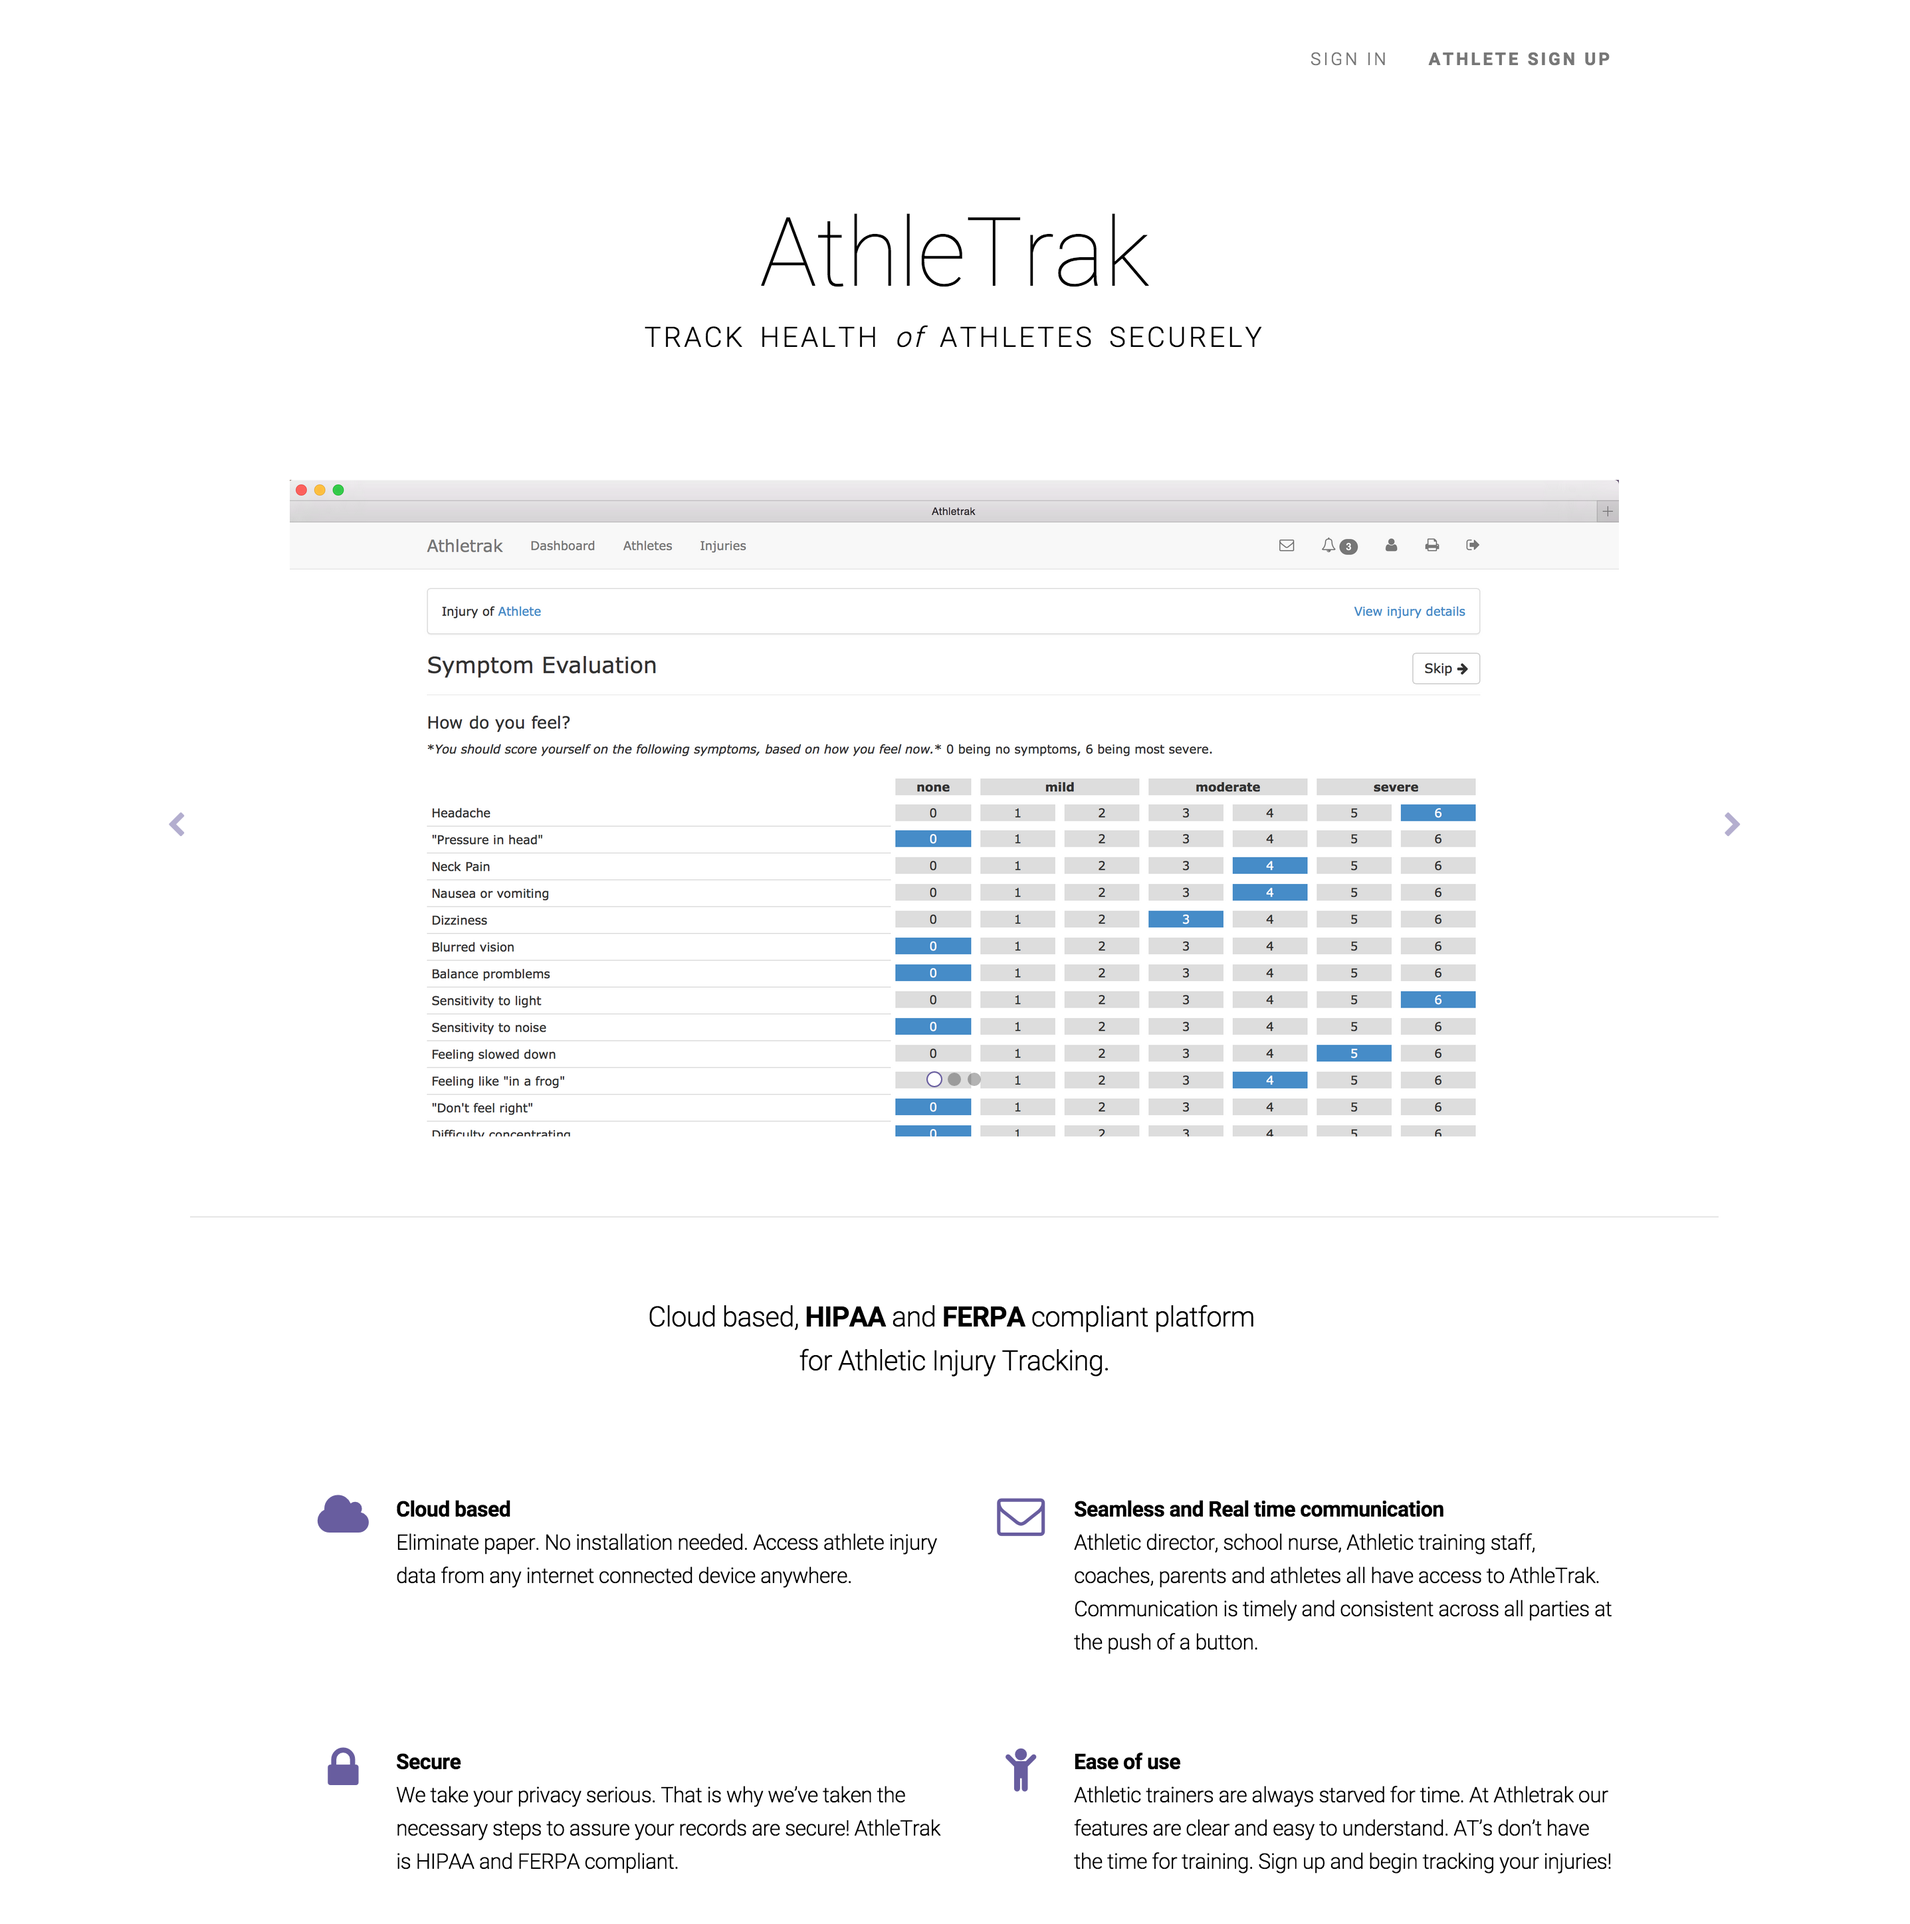
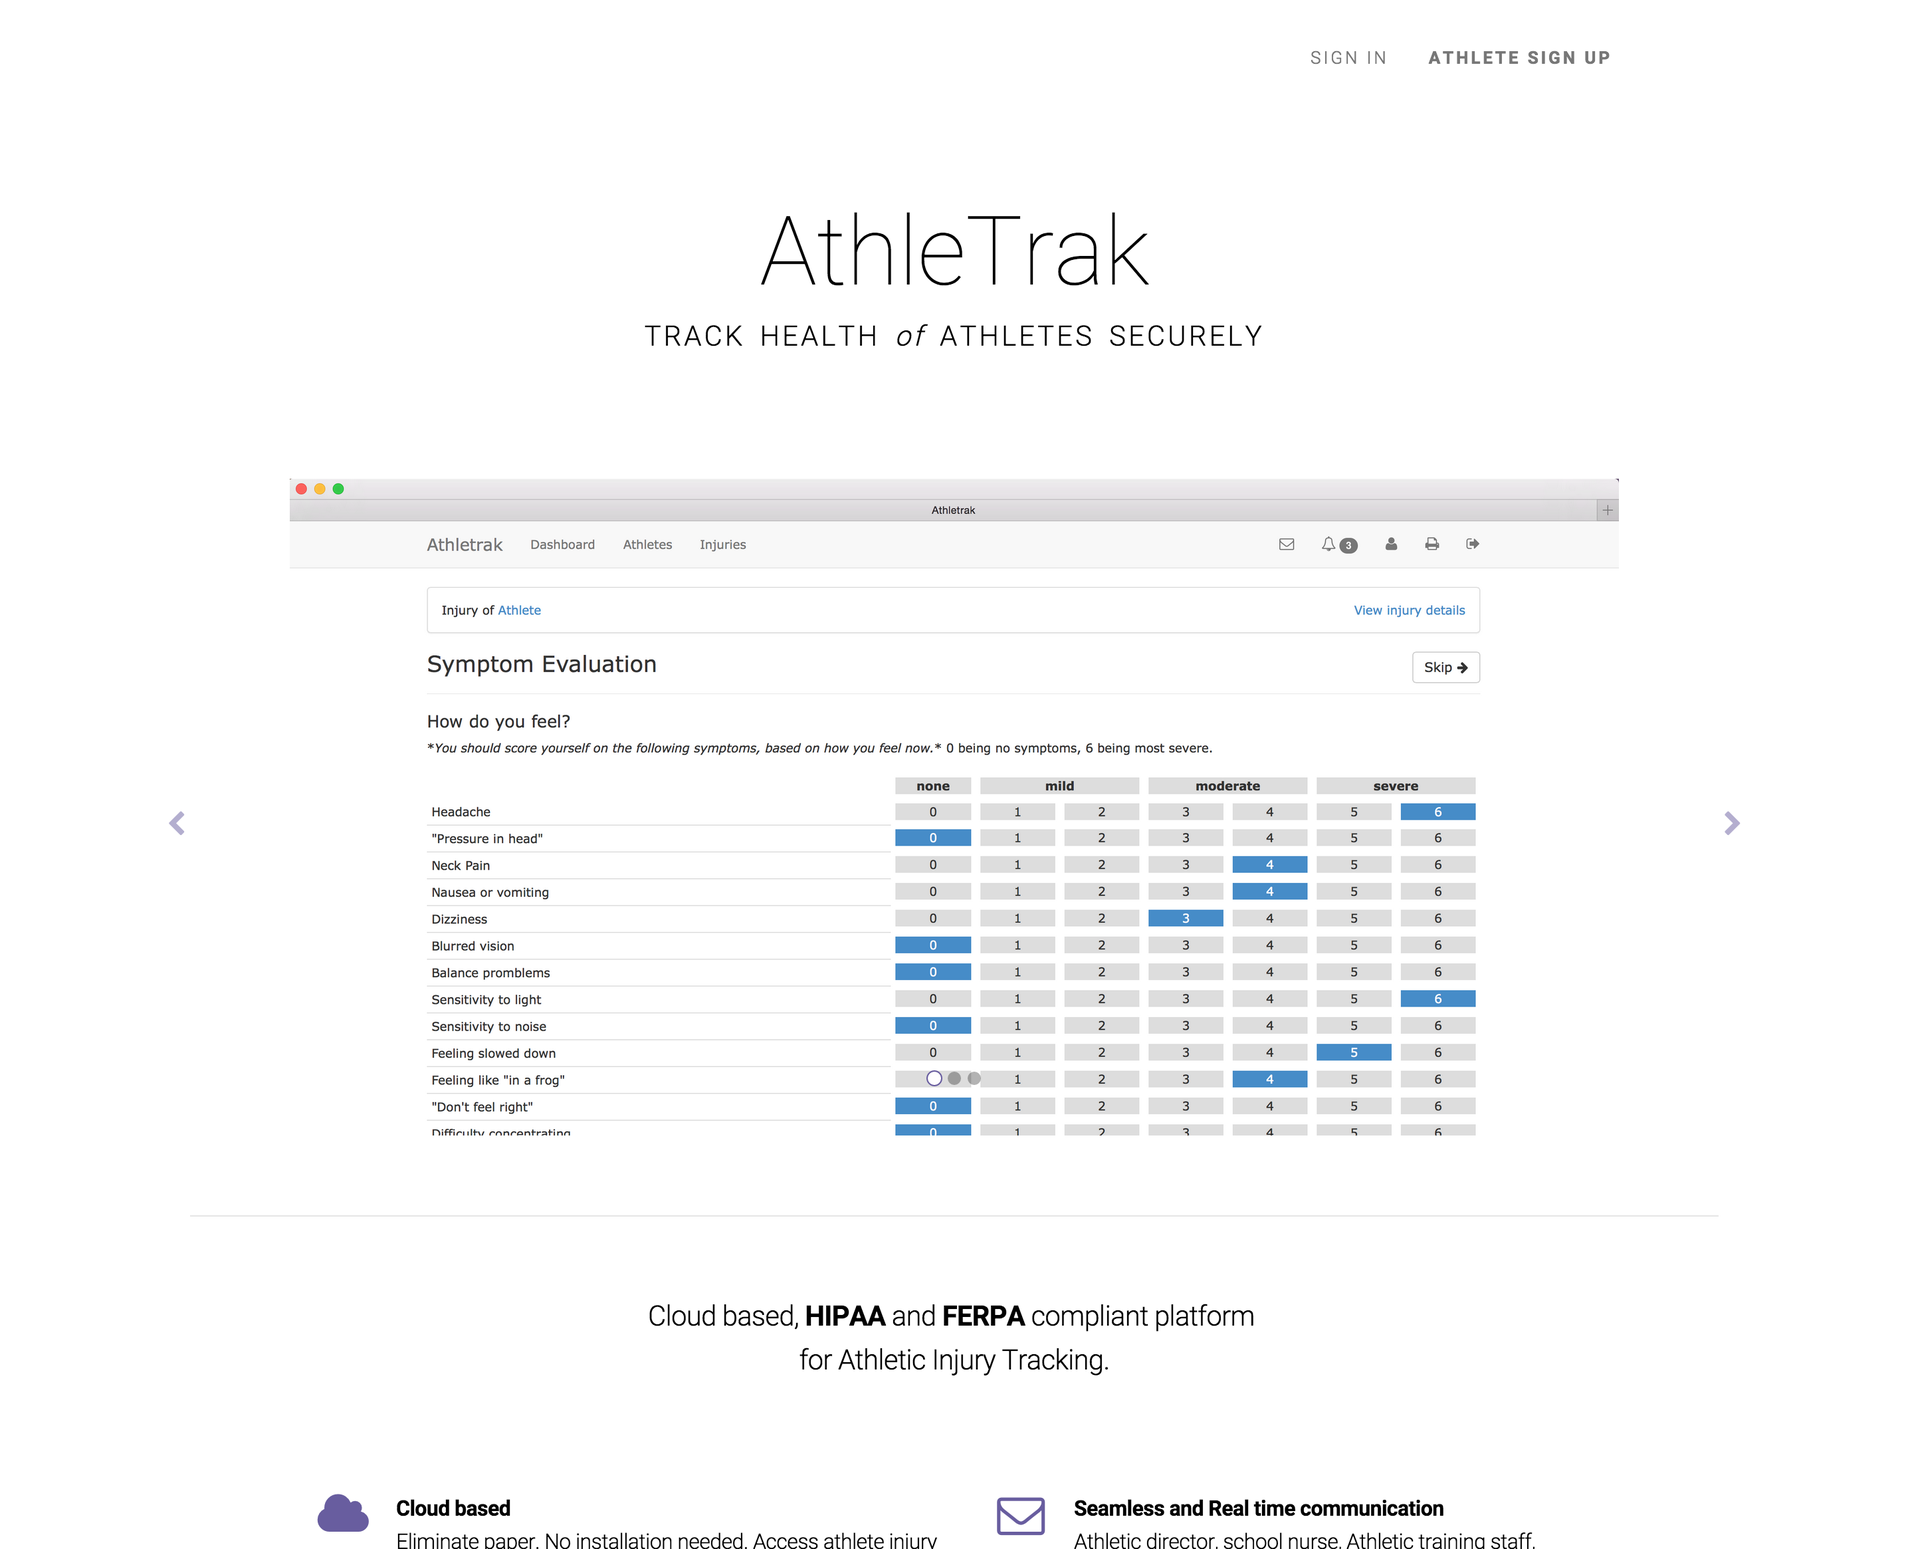
athletrak images added

diff --git a/portfolio/athletrak.html b/portfolio/athletrak.html
@@ -37,8 +37,11 @@ description: Request a quote on your Ruby on Rails Project
         <p>
           <div class="image-slider" data-carousel-options='{"transitionStyle": "fadeUp"}'>
             <img src="/images/portfolio/athletrak/1.png" alt="">
-            <img src="/images/portfolio/athletrak/1.png" alt="">
-            <img src="/images/portfolio/athletrak/1.png" alt="">
+            <img src="/images/portfolio/athletrak/2.png" alt="">
+            <img src="/images/portfolio/athletrak/3.png" alt="">
+            <img src="/images/portfolio/athletrak/4.png" alt="">
+            <img src="/images/portfolio/athletrak/5.png" alt="">
+            <img src="/images/portfolio/athletrak/6.png" alt="">
           </div>
         </p>
       </div>
